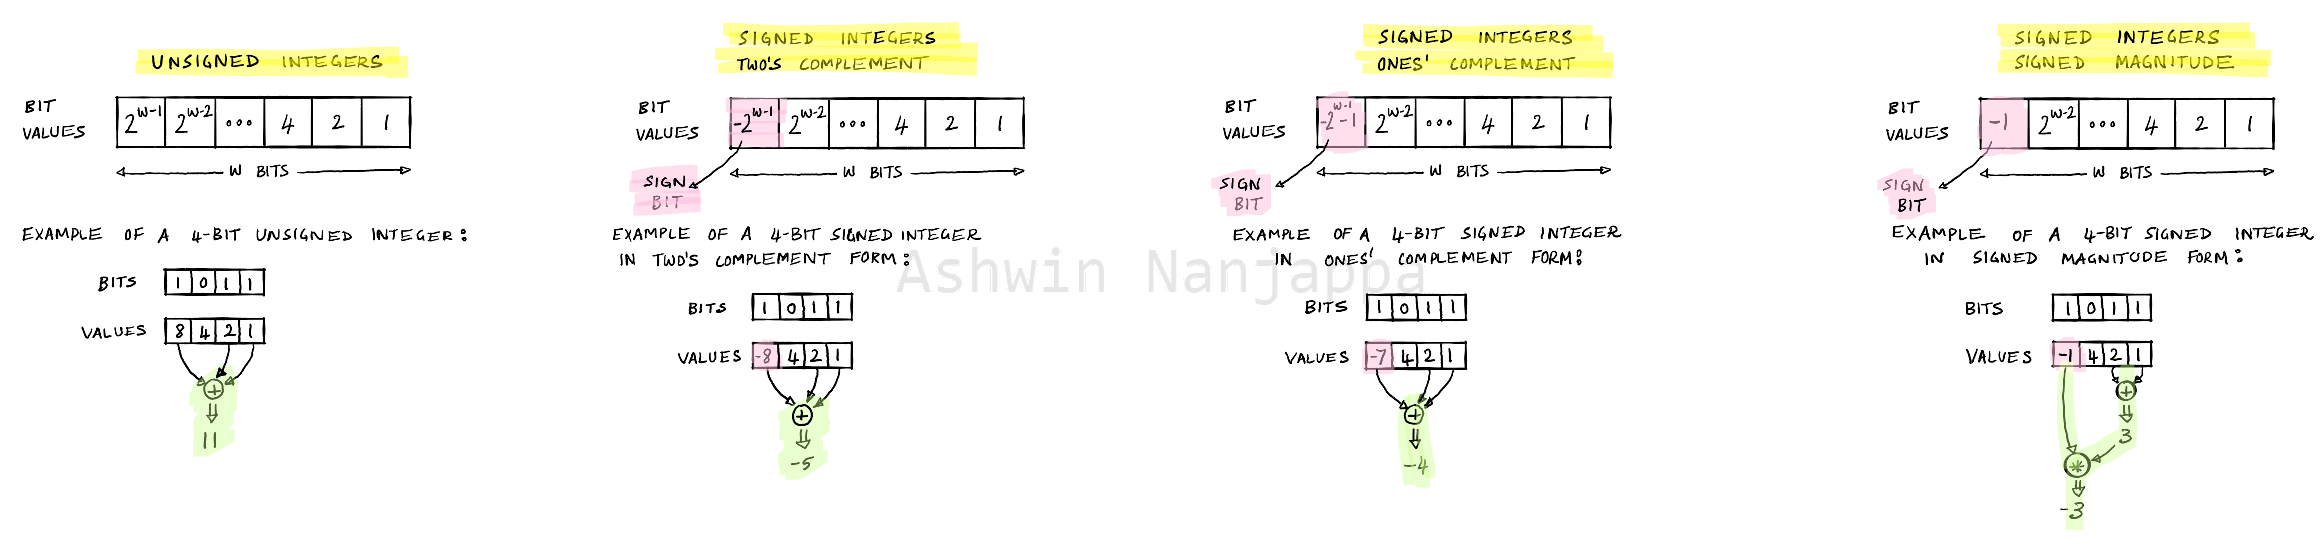
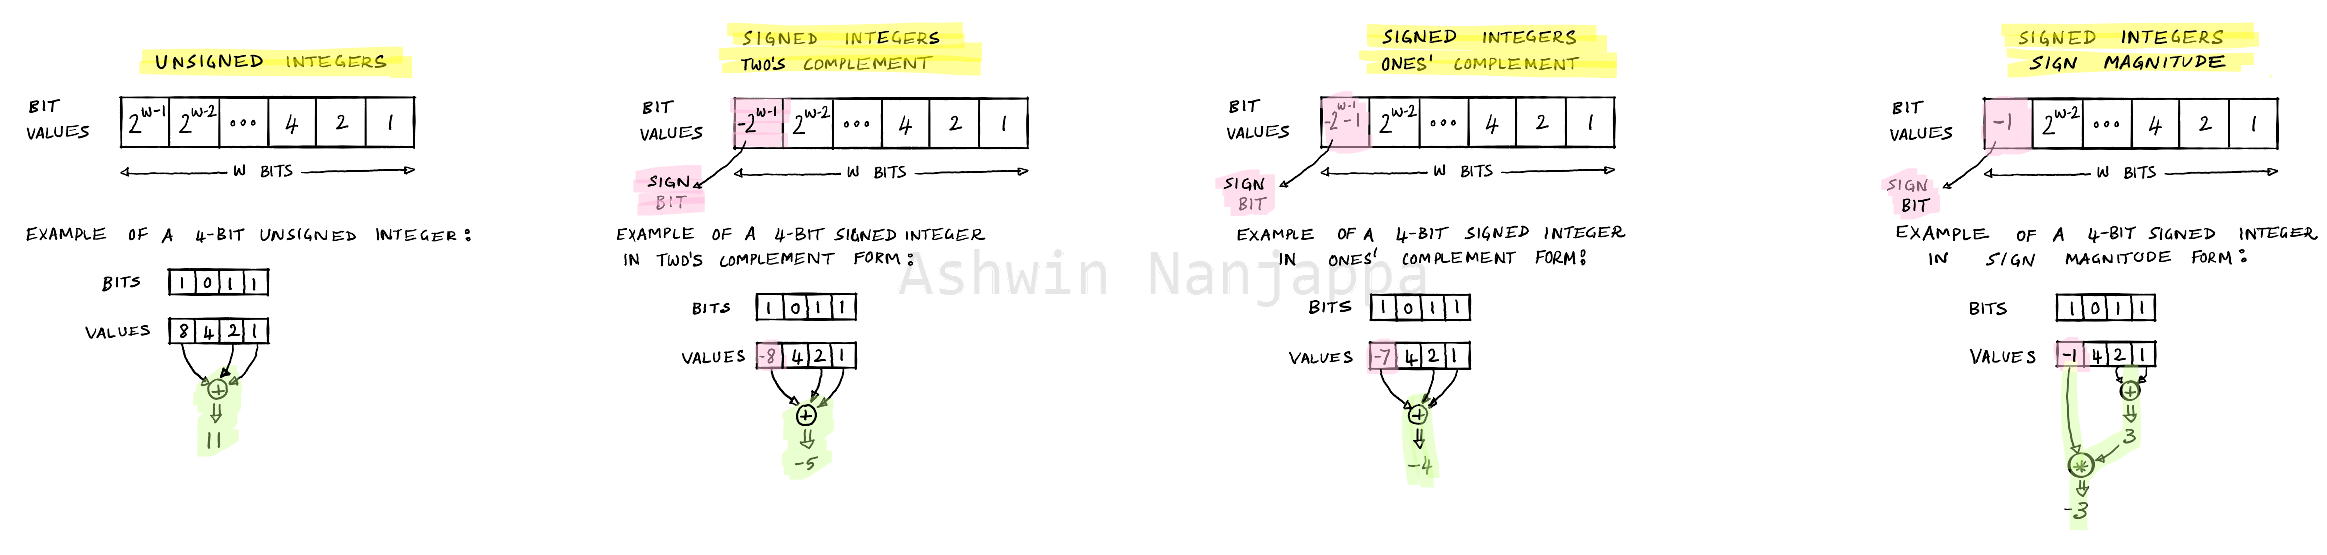
Update

diff --git a/tech/2020-04-05-integer-representations.html b/tech/2020-04-05-integer-representations.html
@@ -50,12 +50,12 @@
 <ul>
 <li>In C/C++, both signed and unsigned integer types are available. Other languages like Java have only signed integer types.</li>
 <li><strong>Unsigned integer</strong> in almost all languages and computers have a single possible implementation show in the above figure.</li>
-<li><strong>Signed integers</strong> have 3 known implementations: two's complement, ones' complement and signed magnitude. Two's complement is what is universally used in computers today. Ones' complement used to be used in computers until the 1960s, like the <a href="https://en.wikipedia.org/wiki/CDC_160_series">CDC-160</a> for example. Signed magnitude was also used in computers until the 1960s, and is only used in the IEEE 954 floating point format now.</li>
+<li><strong>Signed integers</strong> have 3 known implementations: two's complement, ones' complement and sign magnitude. Two's complement is what is universally used in computers today. Ones' complement used to be used in computers until the 1960s, like the <a href="https://en.wikipedia.org/wiki/CDC_160_series">CDC-160</a> for example. Sign magnitude was also used in computers until the 1960s, and is only used in the IEEE 954 floating point format now.</li>
 <li>My mental model of how bits are interpreted in these 3 implementations is depicted in the above figure using a 4-bit integer type as an example.</li>
 <li><strong>Two's complement</strong> is a bit unintuitive for humans. But it won the race because addition, subtraction and multiplication are the simplest to implement in it and are the same for both unsigned and signed integers. For example, addition of unsigned integers and signed integers (in two's complement form) is the same bit-wise process: add the bits from LSB to MSB and ignore the final carry bit. So simple!</li>
 <li>Two's complement, by its nature, has an uneven range. For example, 8-bit signed integer has range -128 to +127. Notice how negating -128 will not give you +128 because that value cannot be represented in a two's complement 8-bit signed integer. Computers using two's complement choose to return -128 as the negated value of -128.</li>
 <li><strong>Ones' complement</strong>, by its nature, has an even range. For example, 8-bit signed integer has range -127 to +127. But it will have two zeroes: +0 (when all bits are zero) and -0 (when all bits are one).</li>
-<li><strong>Signed magnitude</strong>, by its nature, has an even range. For example, 8-bit signed integer has range -127 to +127. But it will have two zeroes. You can see this in the IEEE 754 floating point format, which has two zeroes.</li>
+<li><strong>Sign magnitude</strong>, by its nature, has an even range. For example, 8-bit signed integer has range -127 to +127. But it will have two zeroes. You can see this in the IEEE 754 floating point format, which has two zeroes.</li>
 <li>C/C++ standard allows signed integer to be in any of these 3 implementations in a bid to support old computers of the 1960s. This is the reason why the minimum ranges of signed integers in C/C++ standard have an even range. For example, the minimum range of 8-bit signed integers in C/C++ is -127 to +127. But implementations are allowed to have signed integer types whose range is larger, which is what all computers do today: their 8-bit signed integers have range -128 to +127 because they use two's complement.</li>
 </ul>
 <p><strong>References:</strong></p>
